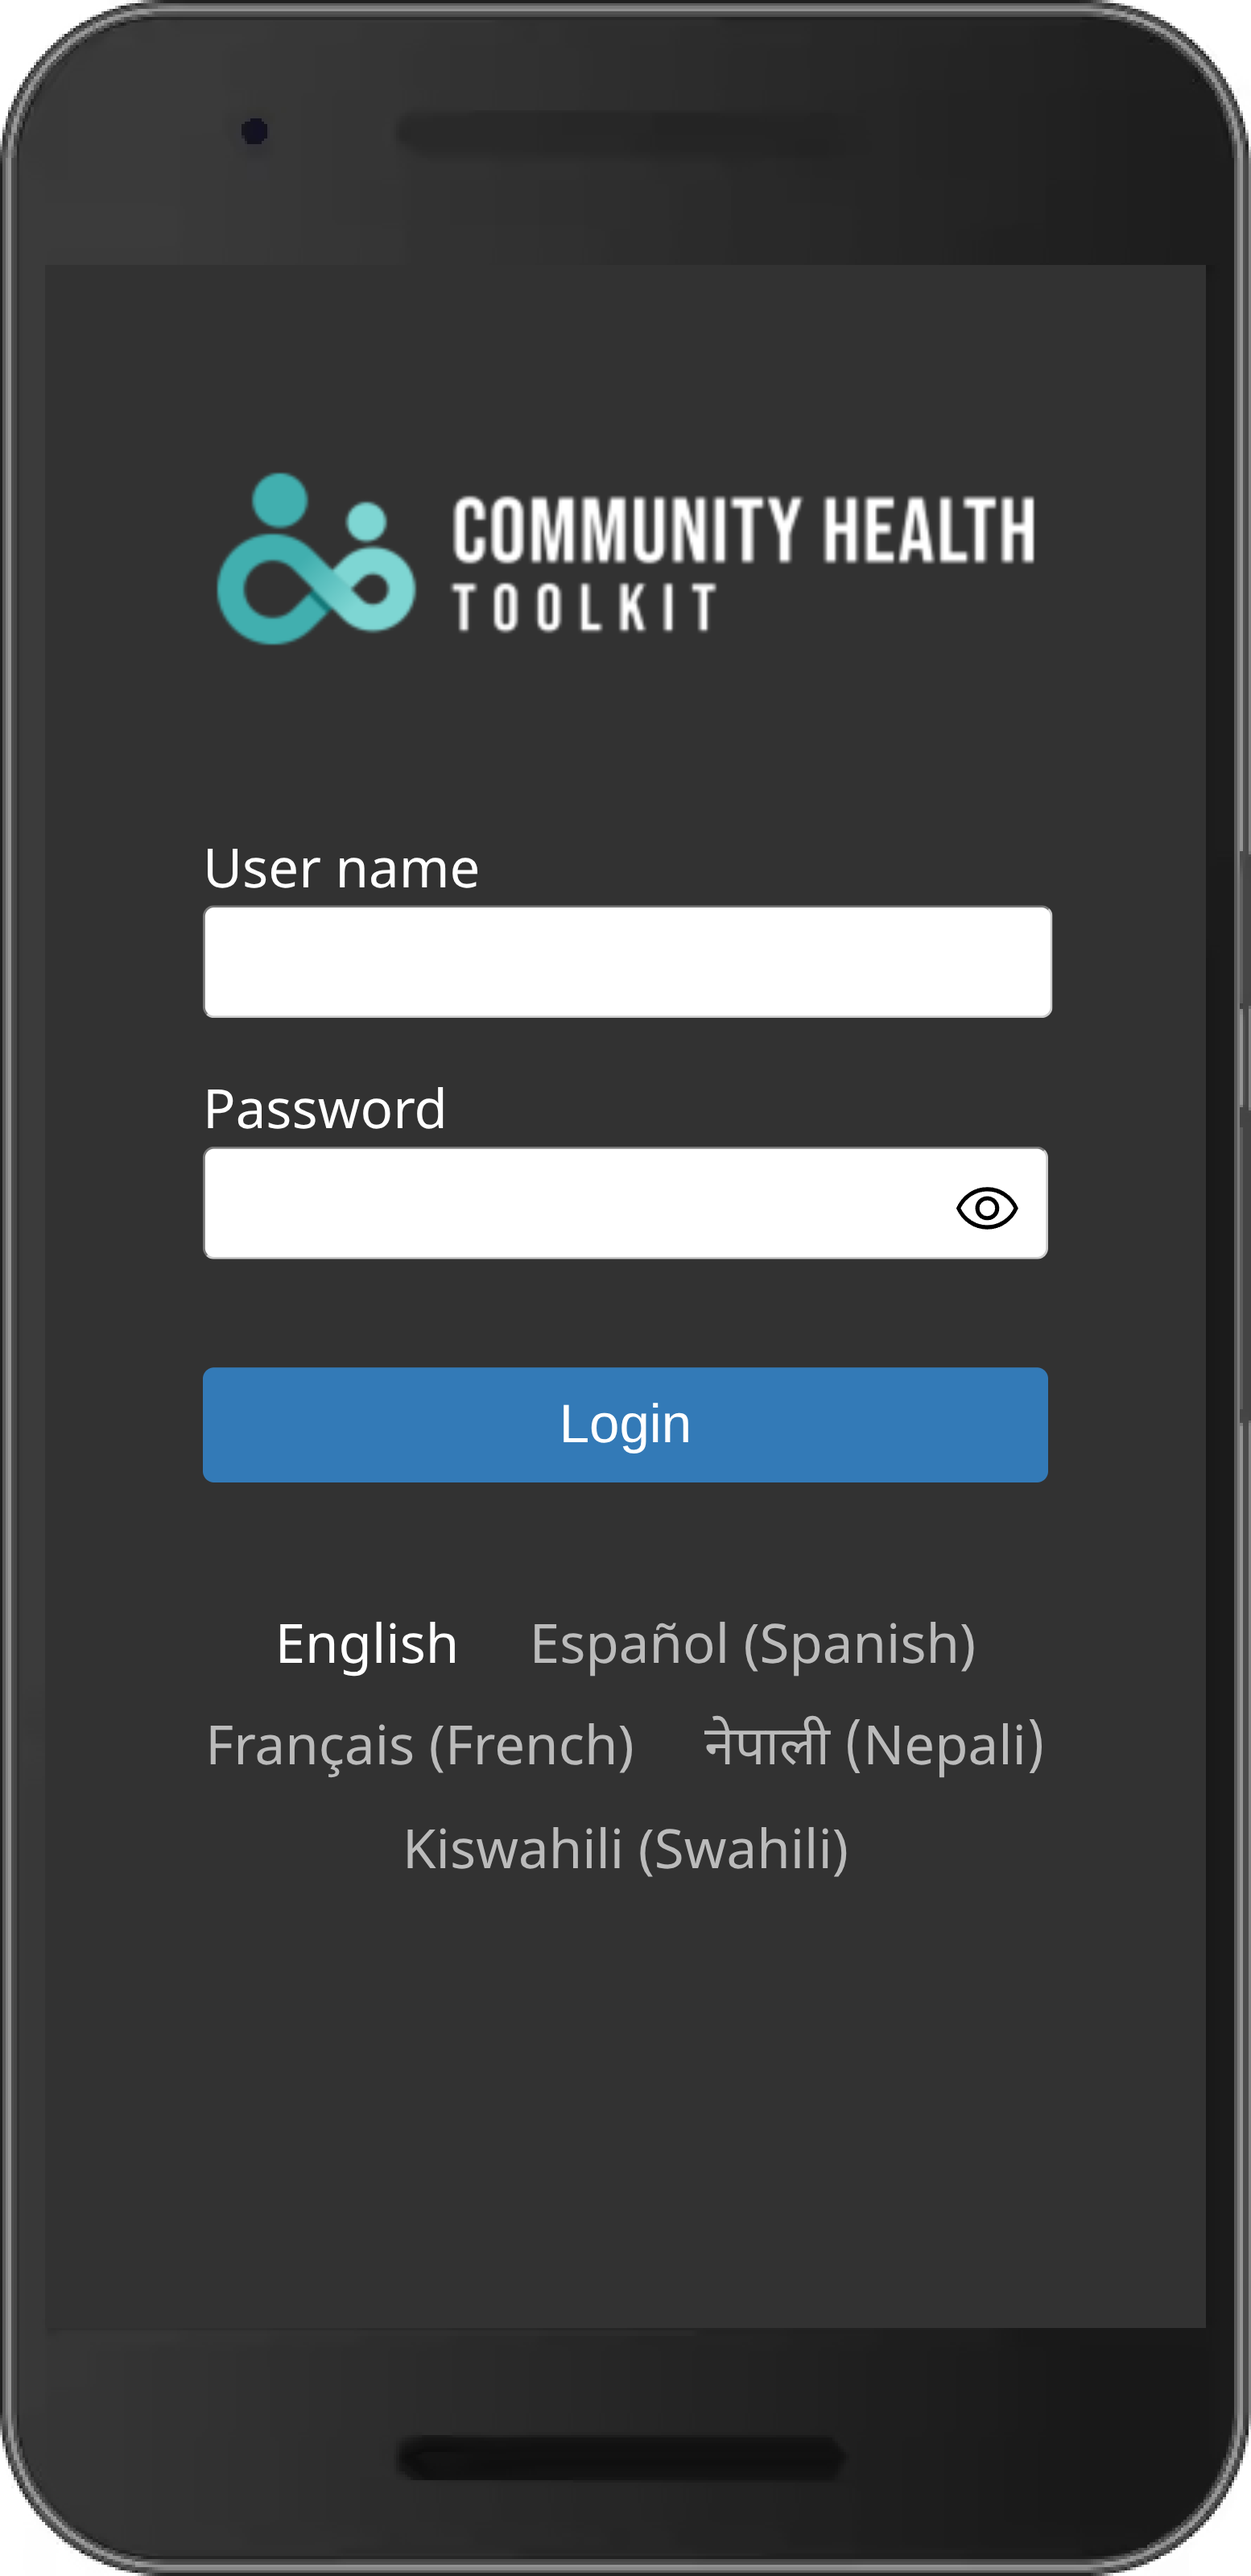
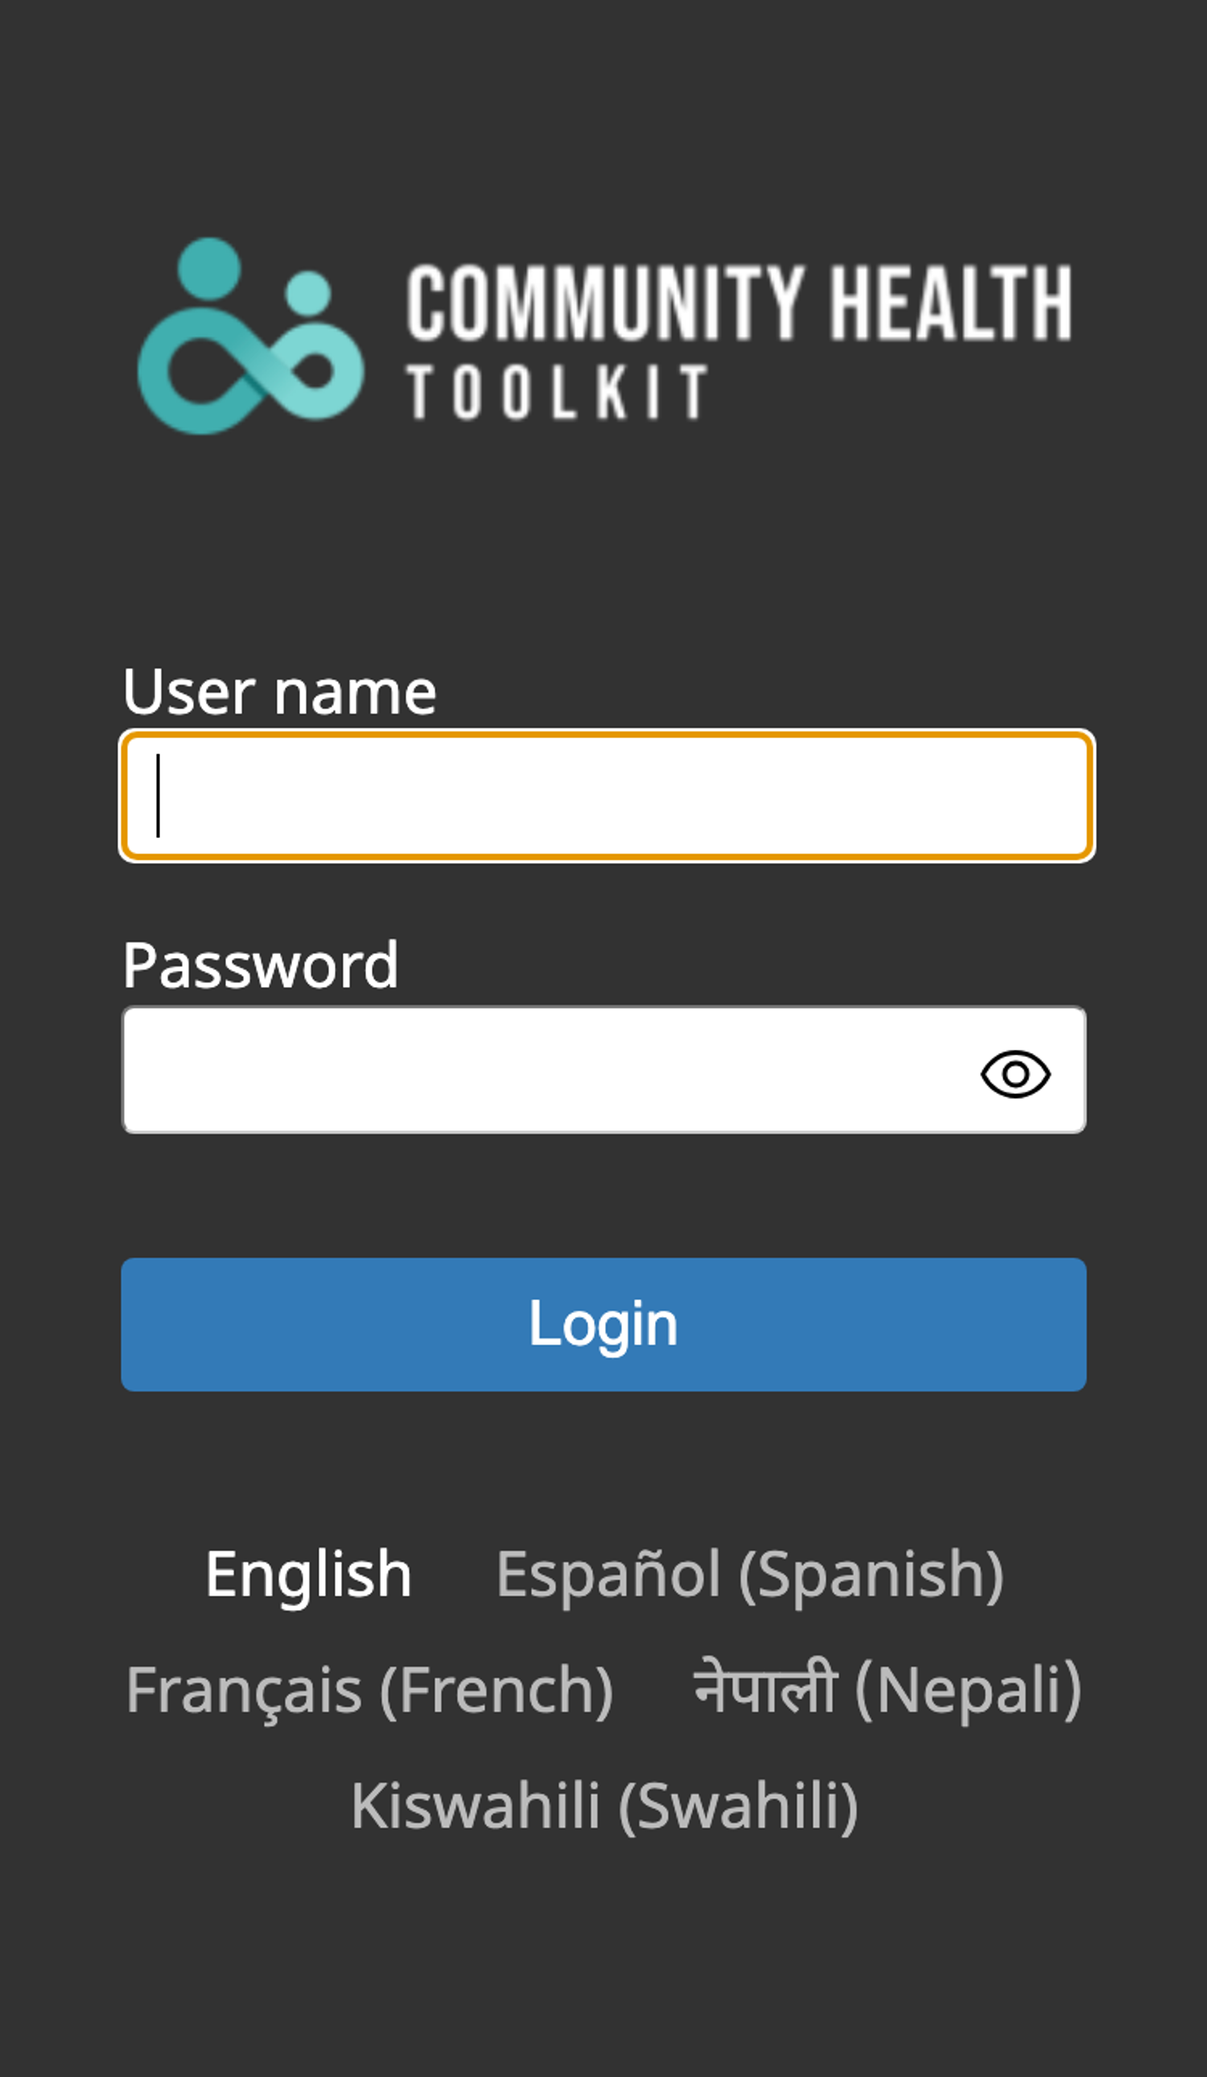
new layout and updated screenshots for login per feedback

diff --git a/content/en/building/login.md b/content/en/building/login.md
@@ -23,9 +23,9 @@ Users may log out by going to the options menu available in the top right corner
 
 {{< see-also page="/building/navigation" >}}
 
+{{< figure src="login-desktop.png" link="login-desktop.png">}}
 {{< cards >}}
-    {{< card image="login-mobile.png" link="login-mobile.png"  subtitle="Mobile login - click to zoom" >}}
-    {{< card image="login-desktop.png" link="login-desktop.png"  subtitle="Desktop login - click to zoom" >}}
+{{< figure src="login-mobile.png" link="login-mobile.png" >}}
 {{< /cards >}}
 
 
